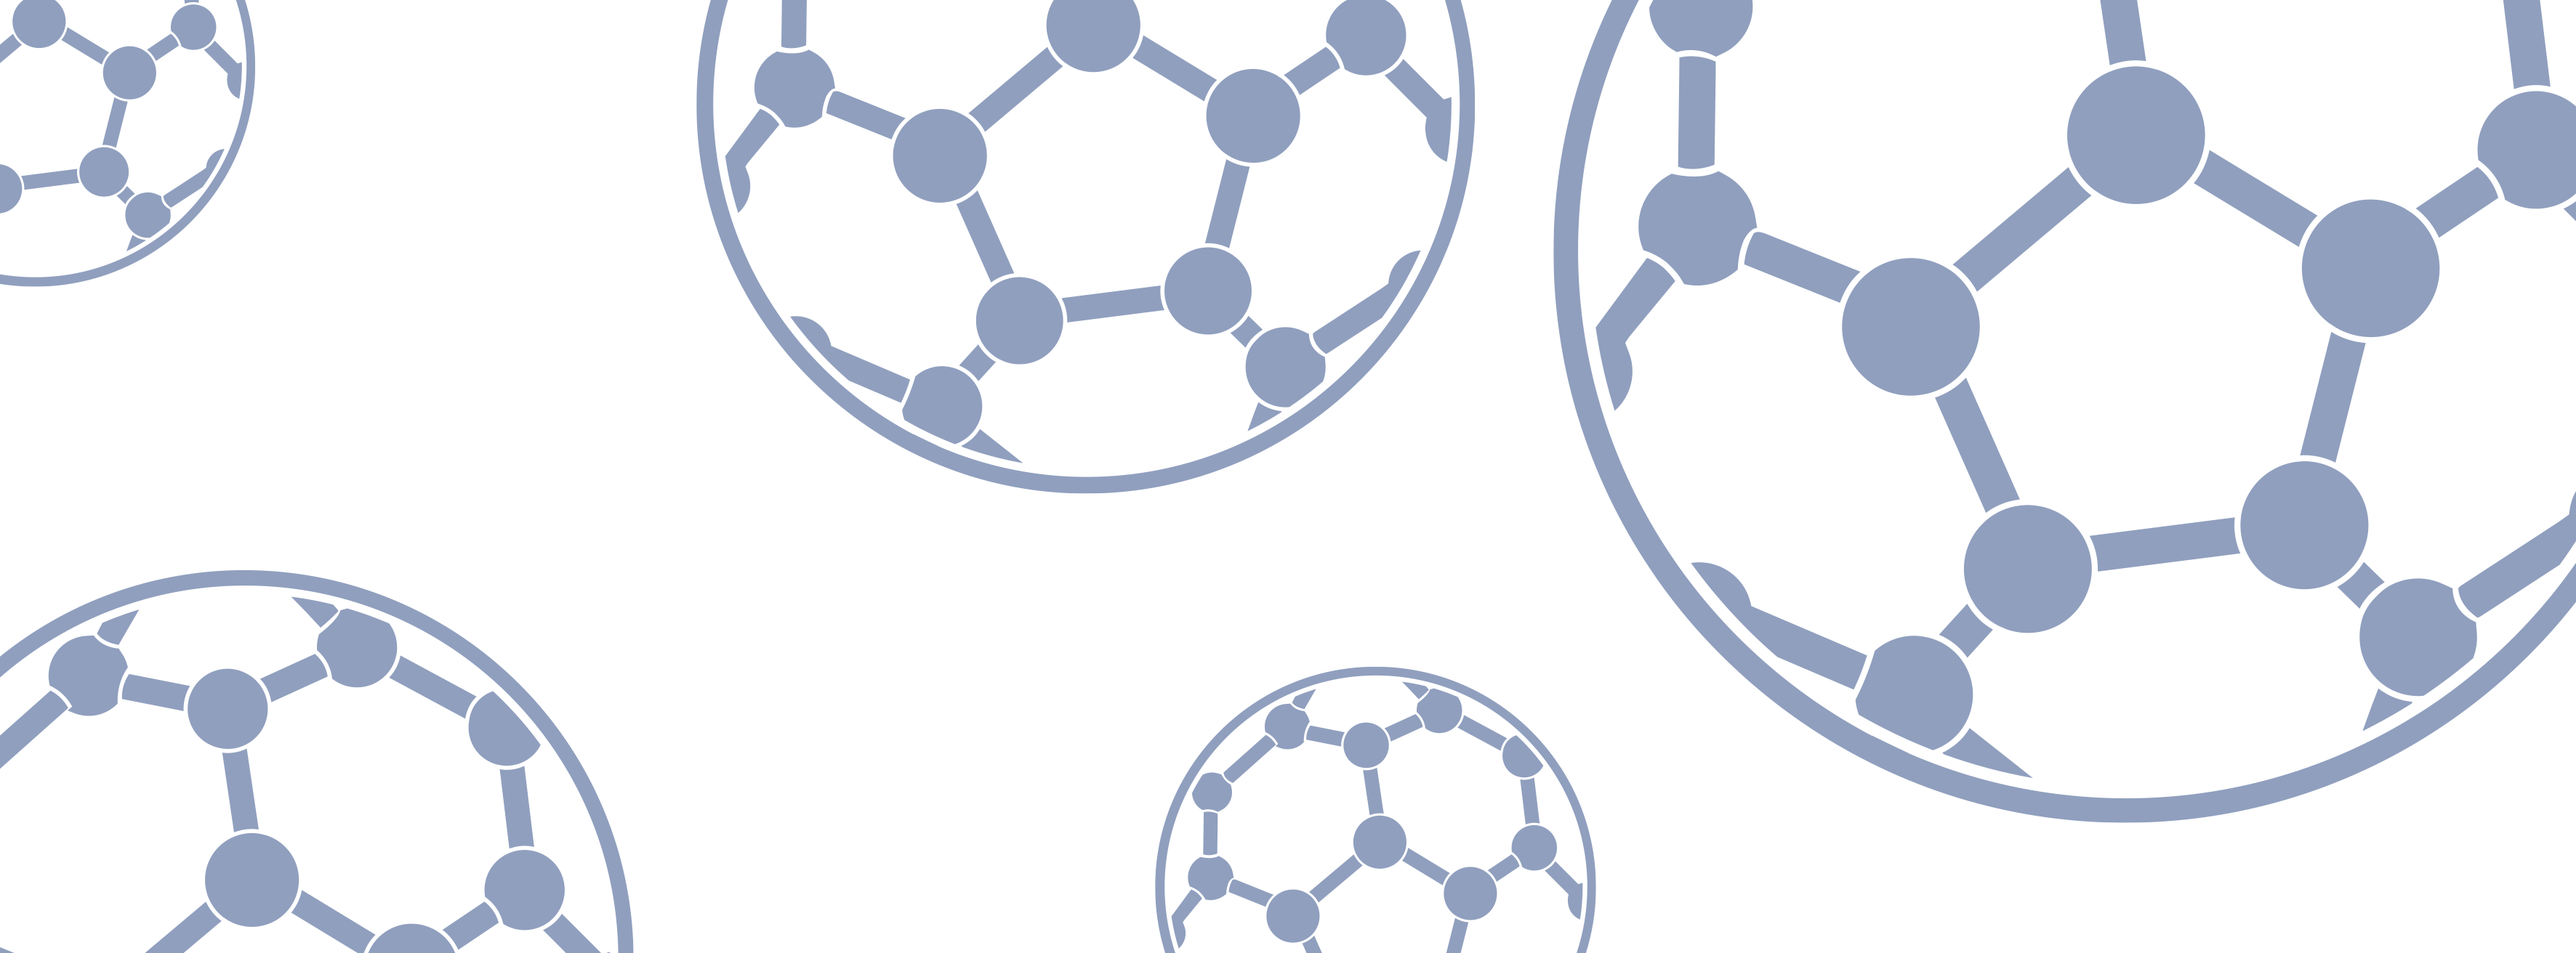
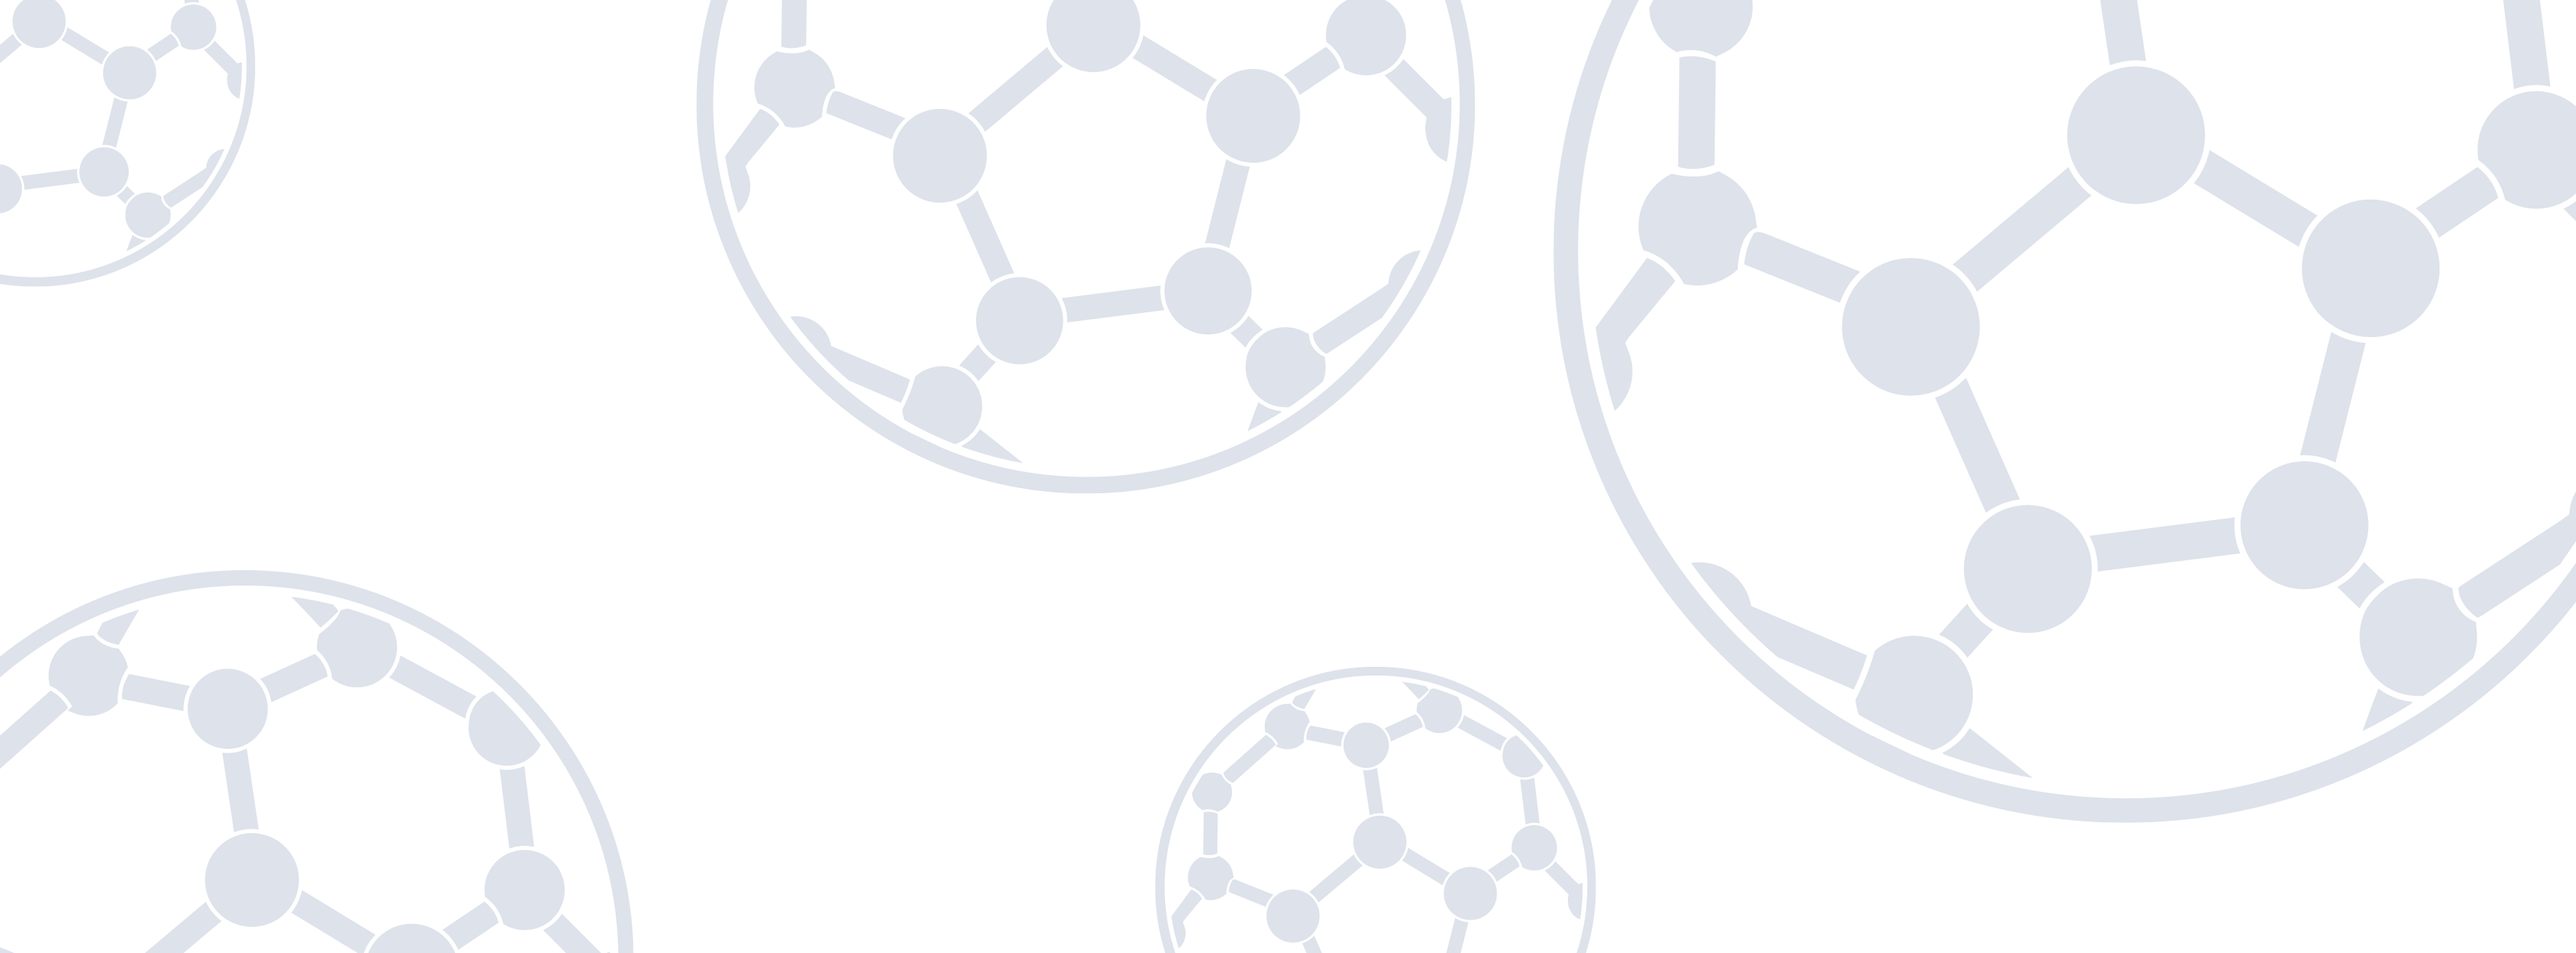
Fixes, styles edited

diff --git a/version1/index.html b/version1/index.html
@@ -37,13 +37,13 @@
                         <span class="icon-bar"></span>
                     </button>
                     <h1 class="logo">
-                        <a href="#home" data-page=".main-page" data-header=".main-head" data-cls="image fullscreen dim  boeing active" title="Home" class="exabyte-logo"></a>
+                        <a href="#home" data-page=".main-page" data-header=".main-head" data-cls="image dim  boeing active" title="Home" class="exabyte-logo"></a>
                     </h1>
                 </div>
 
                 <nav class="navbar-collapse collapse">
                     <ul class="nav navbar-nav">
-                        <li class="active"><a href="#home"  data-page=".main-page" data-header=".main-head" data-cls="image fullscreen dim boeing active" title="Home">Home</a></li>
+                        <li class="active"><a href="#home"  data-page=".main-page" data-header=".main-head" data-cls="image dim boeing active" title="Home">Home</a></li>
                         <li><a href="#about"  data-page=".about-page" data-header=".about-head" data-cls="subpage" title="About">About</a></li>
                         <li><a href="#contact"  data-page=".contact-page"  data-header=".contact-head" data-cls="subpage" title="Contact">Contact</a></li>
                         <li class="login"><a href="" title="Signup"> Sign up</a></li>
@@ -62,13 +62,13 @@
 
             <div class="mouse"></div>
 
-            <div class="text-center about-head">
+<!--             <div class="text-center about-head">
                 <h2 class="subpageTitle">About</h2>
-            </div>
+            </div> -->
 
-            <div class="text-center contact-head">
+   <!--          <div class="text-center contact-head">
                 <h2 class="subpageTitle">Contact</h2>
-            </div>
+            </div> -->
 
             <div class="text-center privacy-head">
                 <h2 class="subpageTitle">Privacy Policy</h2>
@@ -83,7 +83,7 @@
                 <header class="text-center">
                     <div class="row">
                         <div class="col-xs-12 col-sm-10 col-sm-offset-1 col-lg-8 col-lg-offset-2" style="">
-                            <h2 class="exb-color">SIMPLICITY, SCALE, ACCURACY</h2>
+                            <h2 class="exb-color" style="text-transform: uppercase;">NEW microprocessors DESIGNED BY <strong>SOFTWARE</strong></h2>
                             <p>
                                 We merge together the powers of <b class="exb-color">nanoscale simulations</b> and <b  class="exb-color">cloud computing</b>
                                 to help people develop new, better materials.
@@ -109,7 +109,7 @@
             </div>
         </section>
 
-        <section class="section gray metrics">
+        <section class="section lightblue metrics">
             <div class="container">
                 <header class="text-center">
                     <div class="row metric-title">
@@ -120,13 +120,13 @@
                 </header>
                 <div class="row submetric text-center">
                     <div class="col-xs-12 col-sm-10 col-sm-offset-1 col-lg-8 col-lg-offset-2">
-                        <h2 class="exb-color"><strong>2.5x </strong></h2>
+                        <h2 class="exb-color"><strong>2.5x </strong><div class="pub-ent">public enterprise</div></h2>
                         <p> <b class="exb-color">more</b> virtual tests for materials discovery  <br> reduced time = $100k in direct savings</p>
                     </div>
                 </div>
                 <div class="row submetric text-center">
                     <div class="col-xs-12 col-sm-10 col-sm-offset-1 col-lg-8 col-lg-offset-2">
-                        <h2 class="exb-color"><strong>5x </strong></h2>
+                        <h2 class="exb-color"><strong>5x </strong><div class="rs-lab">research lab</div></h2>
                         <p> <b class="exb-color">shorter</b> turnaround time for prototyping <br> reduced time = $10K in direct savings</p>
                     </div>
                 </div>
@@ -139,7 +139,7 @@
                 <header class="text-center">
                     <div class="row">
                         <div class="col-xs-12 col-sm-10 col-sm-offset-1 col-lg-8 col-lg-offset-2">
-                            <h2 class="exb-color">SIMPLE BUT <strong>POWERFULL</strong></h2>
+                            <h2 class="exb-color">SIMPLICITY, SCALE, ACCURACY</h2>
                         </div>
                     </div>
                 </header>
@@ -260,6 +260,13 @@
         <!-- Contact -->
         <section class="section mainForm">
             <div class="container">
+                <header class="text-center title">
+                    <div class="row">
+                        <div class="col-xs-12 col-sm-10 col-sm-offset-1 col-lg-8 col-lg-offset-2">
+                            <h2 class="exb-color">How to contact us</h2>
+                        </div>
+                    </div>
+                </header>
                 <div class="row list">
                     <form role="form" onsubmit="return post_to_parse();">
                         <div class="col-xs-12 col-sm-7 col-md-7">
@@ -277,27 +284,23 @@
                             </div>
 
                             <div class="col-xs-12 i">
-                                <button type="submit" class="btn btn-red submit btn-effect">Send message</button>
+                                <button type="submit" class="btn btn-exablue submit btn-effect">Send message</button>
                             </div>
                         </div>
-               <!--          <div class="col-xs-12 col-sm-4 col-lg-4">
-                            <p class="text-center info">171 2nd street, Suite 600 San Francisco, CA 94107, tel: +1 (510) 473-7770, <a href="#" title="#">info@exabyte.io</a></p>
-                        </div> -->
                          <div class="col-xs-12 col-md-5 col-sm-5 contact-address">
                              <div class="map">
-                               <iframe src="https://www.google.com/maps/embed?pb=!1m18!1m12!1m3!1d3153.118490950727!2d-122.39854830000002!3d37.787262799999986!2m3!1f0!2f0!3f0!3m2!1i1024!2i768!4f13.1!3m3!1m2!1s0x8085807cd88d3159%3A0x6a7d78656595769c!2s171+2nd+St%2C+San+Francisco%2C+CA+94105!5e0!3m2!1sen!2sus!4v1422992034482" width="100%" height="265" frameborder="0" style="border:1px solid #ccc;"></iframe>
+                               <iframe src="https://www.google.com/maps/embed?pb=!1m18!1m12!1m3!1d3153.118490950727!2d-122.39854830000002!3d37.787262799999986!2m3!1f0!2f0!3f0!3m2!1i1024!2i768!4f13.1!3m3!1m2!1s0x8085807cd88d3159%3A0x6a7d78656595769c!2s171+2nd+St%2C+San+Francisco%2C+CA+94105!5e0!3m2!1sen!2sus!4v1422992034482" width="100%" height="370" frameborder="0" style="border:1px solid #ccc;"></iframe>
                              </div>
-                             <p><i class="fa fa-map-marker"></i> 171 2nd street, Suite 600 San Francisco, CA 94107</p>
-                             <p><i class="fa fa-phone"></i> +1 (510) 473-7770</p>
-                             <p><i class="fa fa-envelope-o"></i> info@exabyte.io</p>
+                             <div class="address">
+                                <p><i class="fa fa-map-marker"></i> 171 2nd street, Suite 600</p>
+                                <p><i class="fa" style="margin-right: 6px;"></i>San Francisco, CA 94107</p>
+                                <p><i class="fa fa-phone"></i> +1 (510) 473-7770</p>
+                                <p><i class="fa fa-envelope-o"></i> info@exabyte.io</p>
+                             </div>
                       </div>
                     </form>
                 </div>
             </div>
-<!--
-            <div id="googleMap">
-                <iframe src="https://www.google.com/maps/embed?pb=!1m18!1m12!1m3!1d3153.118490950727!2d-122.39854830000002!3d37.787262799999986!2m3!1f0!2f0!3f0!3m2!1i1024!2i768!4f13.1!3m3!1m2!1s0x8085807cd88d3159%3A0x6a7d78656595769c!2s171+2nd+St%2C+San+Francisco%2C+CA+94105!5e0!3m2!1sen!2sus!4v1422992034482" width="100%" height="600" frameborder="0"></iframe>
-            </div> -->
         </section>
     </div>
 

diff --git a/version1/assets/css/app.min.css b/version1/assets/css/app.min.css
@@ -176,6 +176,7 @@ body a:hover,body a:active,body a:focus {
     background-position: 0 0;
     background-size: cover;
     margin-bottom: 25px;
+    opacity: 0.8;
 }
 
 .x-icon-molecule {
@@ -265,6 +266,15 @@ h3 {
 
 .btn-red.btn-effect:before {
     background: #ec2c2c
+}
+
+.btn-exablue {
+    background: rgba(10, 54, 119, 0.05);
+}
+
+.btn-exablue:hover,
+.btn-exablue:focus {
+    background: rgba(10, 54, 119, 0.1);
 }
 
 .btn-lg {
@@ -359,10 +369,10 @@ h3 {
     min-height: 600px;
     color: #fff;
     font-variant: small-caps;
-    background: -webkit-linear-gradient(rgba(10, 54, 119, 0.8), #3267C7);
-    background: -o-linear-gradient(rgba(10, 54, 119, 0.8), #3267C7);
-    background: -moz-linear-gradient(rgba(10, 54, 119, 0.8), #3267C7);
-    background: linear-gradient(rgba(10, 54, 119, 0.8), #3267C7);
+    background: -webkit-linear-gradient(rgba(10, 54, 119, 0.8), #28529C);
+    background: -o-linear-gradient(rgba(10, 54, 119, 0.8), #28529C);
+    background: -moz-linear-gradient(rgba(10, 54, 119, 0.8), #28529C);
+    background: linear-gradient(rgba(10, 54, 119, 0.8), #28529C);
     box-shadow: 0px 1px 4px rgba(0, 0, 0, 0.55);
 }
 
@@ -561,6 +571,10 @@ h3 {
     background: #f2f1f0
 }
 
+.section.lightblue {
+    background: rgba(10, 54, 119, 0.05);
+}
+
 .section h2 {
     margin: 0 0 25px 0
 }
@@ -662,7 +676,26 @@ h3 {
 }
 
 .metrics .submetric h2 {
-    font-size: 8rem;
+    font-size: 7rem;
+    opacity: 0.8;
+    position: relative;
+}
+
+.metrics .submetric h2 .pub-ent,
+.metrics .submetric h2 .rs-lab {
+    font-size: 3rem;
+    color: #ccc;
+    margin-top: -20px;
+    position: absolute;
+    top: 50%;
+}
+
+.metrics .submetric h2 .pub-ent {
+    left: 0;
+}
+
+.metrics .submetric h2 .rs-lab {
+    right: 7%;
 }
 
 .metrics .submetric p {
@@ -675,7 +708,7 @@ h3 {
 }
 
 #header.subpage {
-    min-height: 400px
+    min-height: 100px;
 }
 
 #header.subpage h2 {
@@ -1511,6 +1544,10 @@ h3 {
     margin-bottom: 20px
 }
 
+.mainForm .title {
+    font-variant: small-caps;
+}
+
 .mainForm .form-control {
     font-size: 20px;
     font-size: 2rem;
@@ -1555,7 +1592,7 @@ h3 {
     font-size: 1.8rem;
     font-weight: 700;
     text-transform: uppercase;
-    padding: 21px 0
+    padding: 21px 0;
 }
 
 .mainForm .info {
@@ -1760,7 +1797,7 @@ h3 {
 }
 
 #footer .copyright {
-    padding: 50px 0 60px
+    padding: 50px 0;
 }
 
 .exb-color {
@@ -1814,6 +1851,11 @@ h3 {
     color: #888;
     line-height: 32px;
     font-variant: small-caps;
+}
+
+.contact-address .address {
+    margin-top: 15px;
+    margin-left: 10px;
 }
 
 .contact-address p i {
